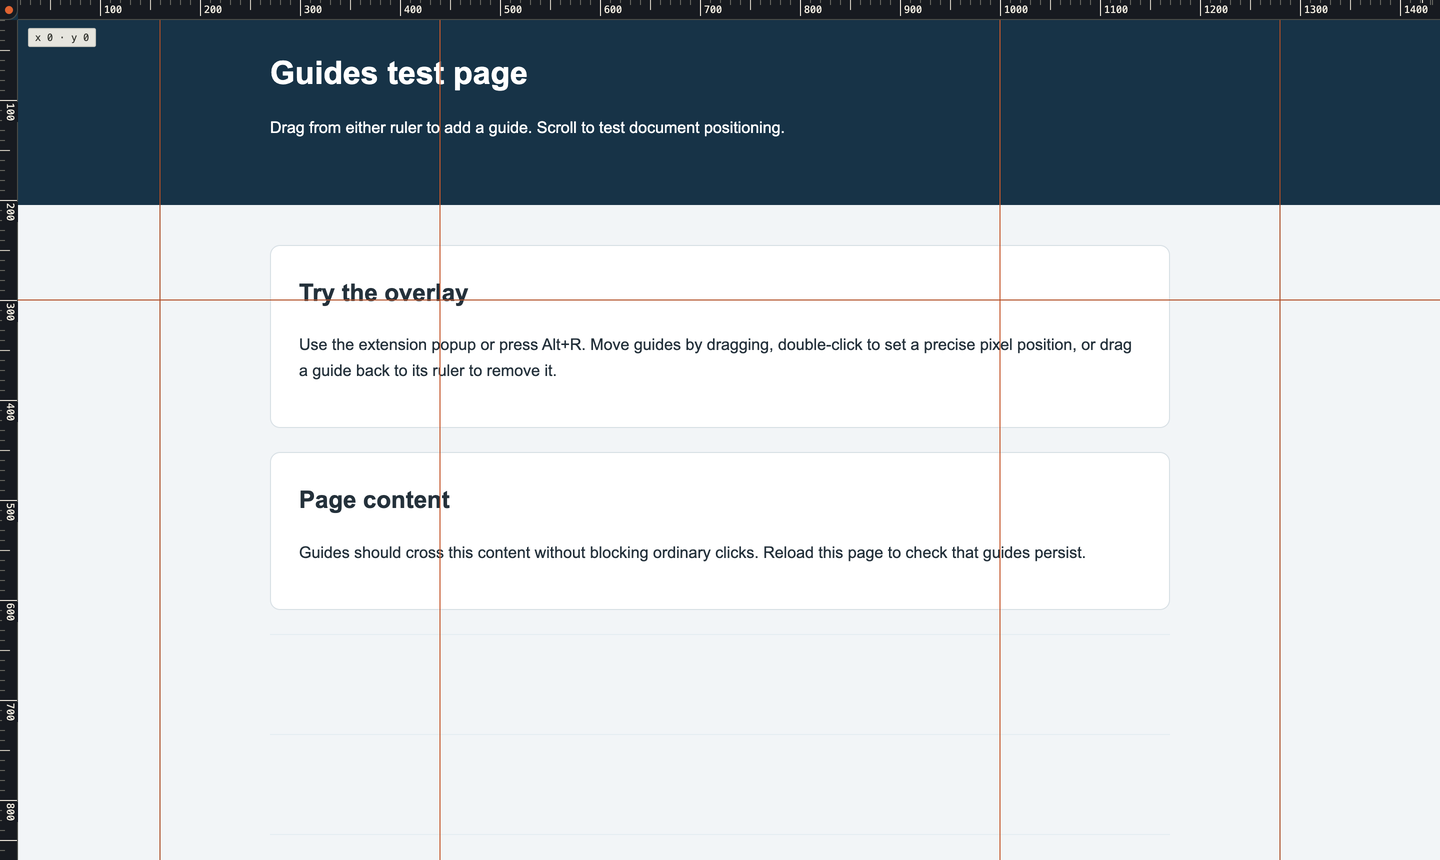
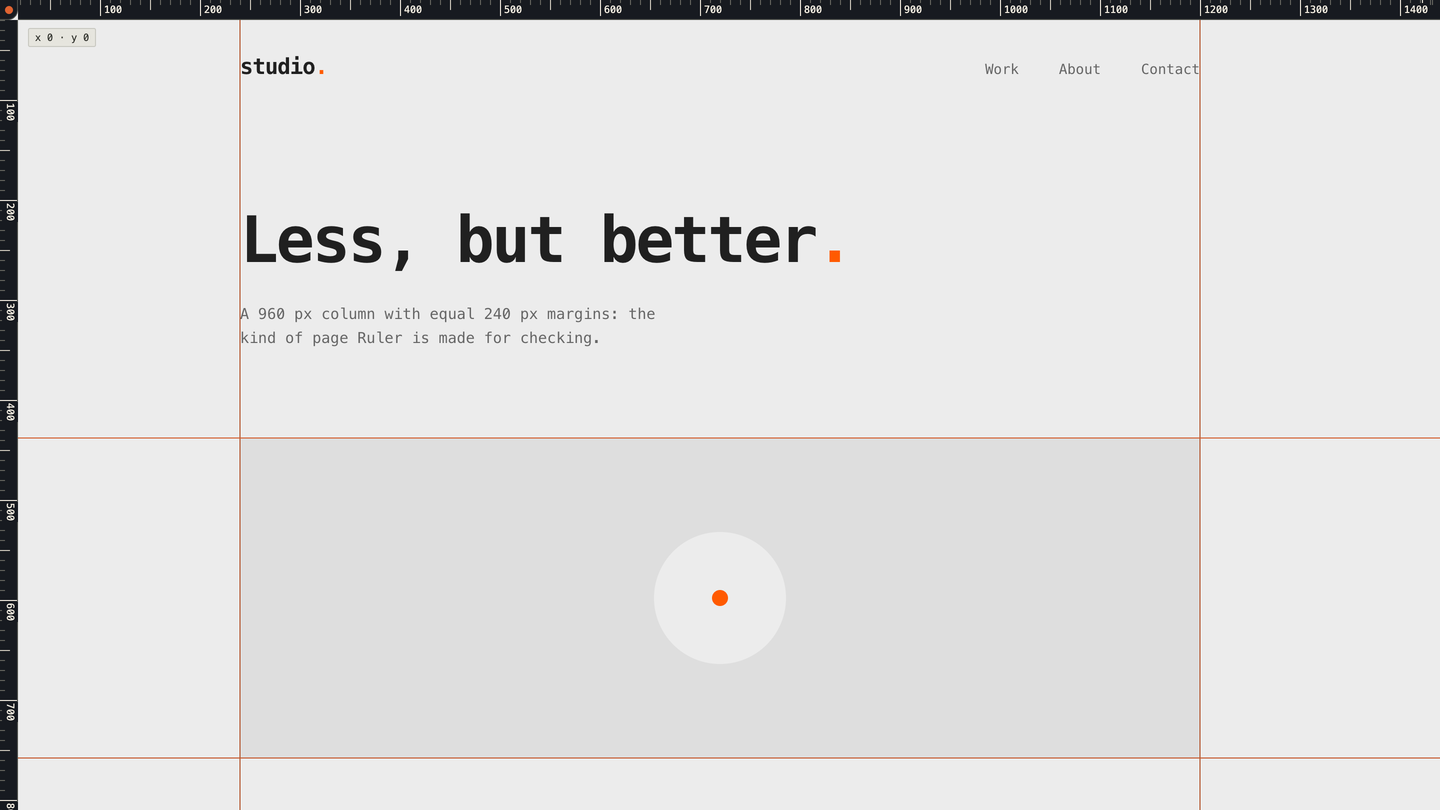
Readme screenshot on a clean demo page in the dropdown's style

diff --git a/demo/index.html b/demo/index.html
@@ -1,0 +1,42 @@
+<!doctype html>
+<html lang="en">
+<head>
+<meta charset="utf-8">
+<meta name="viewport" content="width=device-width, initial-scale=1">
+<title>Ruler demo page</title>
+<style>
+  /* the same language as the Ruler dropdown: flat light grey, mono type, one orange */
+  :root { --bg: #ececec; --ink: #202020; --mut: #666; --soft: #dedede; --orange: #ff5a00; }
+  * { box-sizing: border-box; margin: 0; }
+  body { background: var(--bg); color: var(--ink); font: 15px/1.6 ui-monospace, SFMono-Regular, Menlo, monospace; -webkit-font-smoothing: antialiased; }
+  .wrap { max-width: 960px; margin: 0 auto; }
+  nav { display: flex; align-items: baseline; gap: 40px; padding: 56px 0 0; color: var(--mut); font-size: 14px; }
+  .mark { margin-right: auto; color: var(--ink); font: 700 22px/1 ui-monospace, SFMono-Regular, Menlo, monospace; letter-spacing: -.035em; }
+  .mark span, h1 span { color: var(--orange); }
+  header { padding: 128px 0 88px; }
+  h1 { font: 700 64px/1.02 ui-monospace, SFMono-Regular, Menlo, monospace; letter-spacing: -.04em; }
+  header p { margin-top: 28px; max-width: 30em; color: var(--mut); }
+  .panel { height: 320px; background: var(--soft); border-radius: 2px; display: grid; place-items: center; }
+  .dial { width: 132px; height: 132px; border-radius: 50%; background: var(--bg); display: grid; place-items: center; }
+  .dial::after { content: ""; width: 16px; height: 16px; border-radius: 50%; background: var(--orange); }
+  .row { display: grid; grid-template-columns: repeat(3, 1fr); gap: 48px; padding: 88px 0 160px; }
+  .row h3 { font-size: 14px; font-weight: 700; margin-bottom: 10px; }
+  .row p { color: var(--mut); font-size: 14px; }
+</style>
+</head>
+<body>
+  <div class="wrap">
+    <nav><span class="mark">studio<span>.</span></span><span>Work</span><span>About</span><span>Contact</span></nav>
+    <header>
+      <h1>Less, but better<span>.</span></h1>
+      <p>A 960 px column with equal 240 px margins: the kind of page Ruler is made for checking.</p>
+    </header>
+    <div class="panel"><span class="dial"></span></div>
+    <div class="row">
+      <div><h3>Measure</h3><p>Rulers in CSS pixels that follow the page as it scrolls.</p></div>
+      <div><h3>Align</h3><p>Guides you drag out, snap to 10 px, or type in exactly.</p></div>
+      <div><h3>Mirror</h3><p>Equal margins on both sides, set once.</p></div>
+    </div>
+  </div>
+</body>
+</html>

diff --git a/README.md b/README.md
@@ -45,4 +45,4 @@ Change them at `chrome://extensions/shortcuts`.
 
 ## Development
 
-Plain JavaScript, no build step: `content.js` draws the rulers and guides, `popup.html` / `popup.css` / `popup.js` are the dropdown, and `background.js` handles the shortcuts. `test/index.html` and `test/second.html` are pages for trying it out.
+Plain JavaScript, no build step: `content.js` draws the rulers and guides, `popup.html` / `popup.css` / `popup.js` are the dropdown, and `background.js` handles the shortcuts. `demo/index.html` is the page in the screenshot; `test/index.html` and `test/second.html` are for trying guides across pages.
